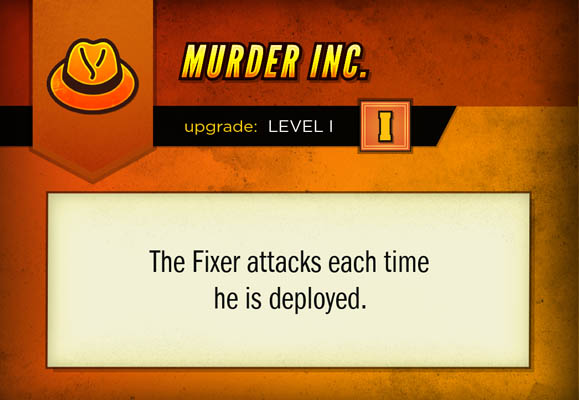
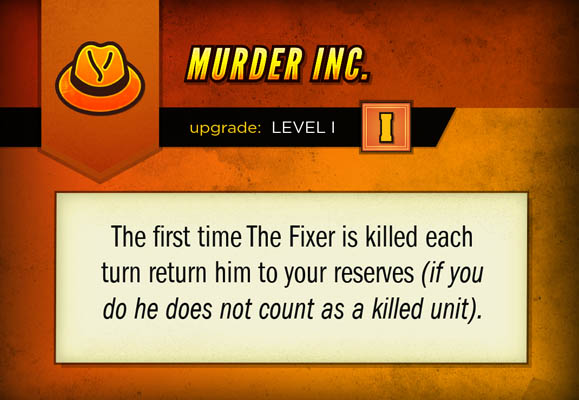
Change mafia upgrades

diff --git a/server/classes/factions/Mafia.js b/server/classes/factions/Mafia.js
@@ -10,7 +10,7 @@ class Mafia extends Faction {
         // triggers
         this.triggers = {
             "onStartOfTurn" : "chooseSpy",
-            "onCleanUp" : "resetSpy"
+            "onCleanUp" : "resetSpy",
         };
 
         // data
@@ -19,6 +19,8 @@ class Mafia extends Faction {
         this.data.title = "La Cosa Nostra";
         this.data.focusDescription = "Infiltrate or control enemy targets";
         this.data.bonusDeploy = { type: 'champion', count: 1 };
+        this.data.fixerReturnedCount = 0;
+        this.data.fixerReturnedMax = 0;
 
         //tokens
         this.tokens['hit-man'] = {
@@ -48,6 +50,7 @@ class Mafia extends Faction {
                 ready: false,
                 type: 'champion',
                 onDeploy : 'fixerDeploy',
+                onUnitKilled: 'fixerKilled',
                 basic: false,
                 influence: 1,
                 attack: [5],
@@ -57,6 +60,29 @@ class Mafia extends Faction {
                 hitsAssigned : 0
             }
         };
+    }
+
+    /**
+     * Process faction upgrade
+     */
+    processUpgrade( upgrade ) {
+        this.data.fixerReturnedMax = upgrade;
+    }
+
+    async fixerKilled( event ){
+        if(!this.data.fixerReturnedMax || this.data.fixerReturnedMax <= this.data.fixerReturnedCount){
+            return;
+        }
+
+        let fixer = this.getChampion();
+
+        // announce thw death and rebirth of the incarnation of divinity, the cycle begins anew!
+        this.game().sound( 'wiff' );
+        this.message(`The fixer slinks away`);
+
+        // return  to our reserves
+        this.returnUnitToReserves( fixer );
+        this.data.fixerReturnedCount++;
     }
 
     /**
@@ -93,6 +119,7 @@ class Mafia extends Faction {
      */
     resetSpy(){
         this.data.spy = null;
+        this.data.fixerReturnedCount = 0;
     }
 
 
@@ -113,6 +140,7 @@ class Mafia extends Faction {
         /// if we don't have our upgrades yet, then we are done
         if( !this.data.upgrade ) return;
 
+        /*
         // the fixer makes an attack upon entering the area if we have our second upgrade
         let area = this.game().areas[ fixer.location ];
         let output = await this.attack({
@@ -127,7 +155,7 @@ class Mafia extends Faction {
             await this.game().timedPrompt('noncombat-attack', { output : [output] } )
                 .catch( error => console.error( error ) );
         }
-
+        */
     }
 
 
